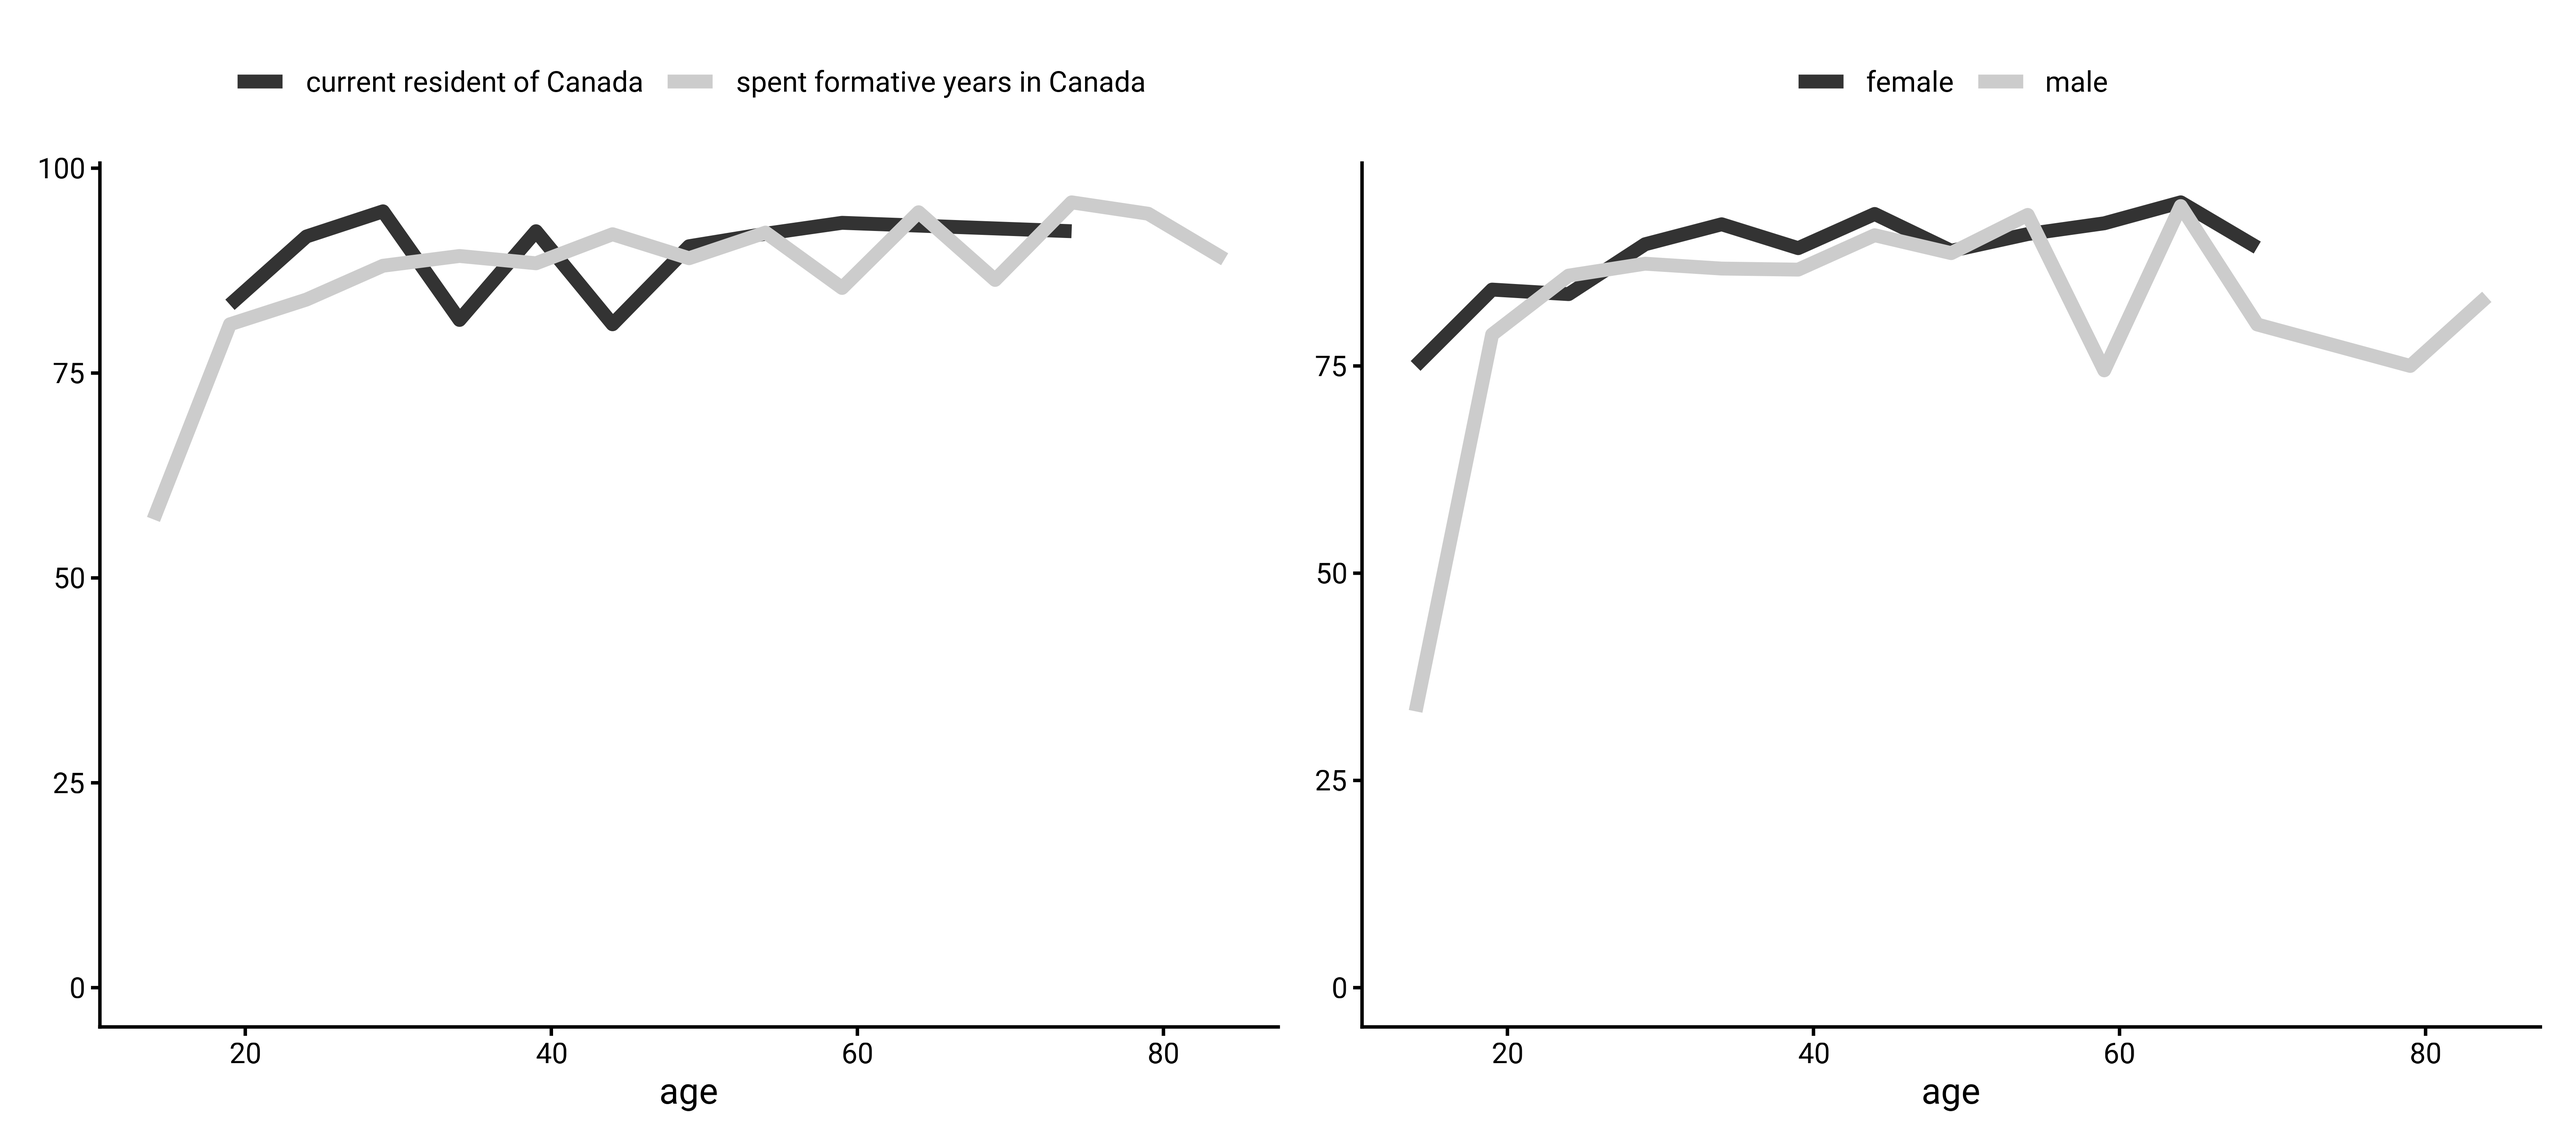
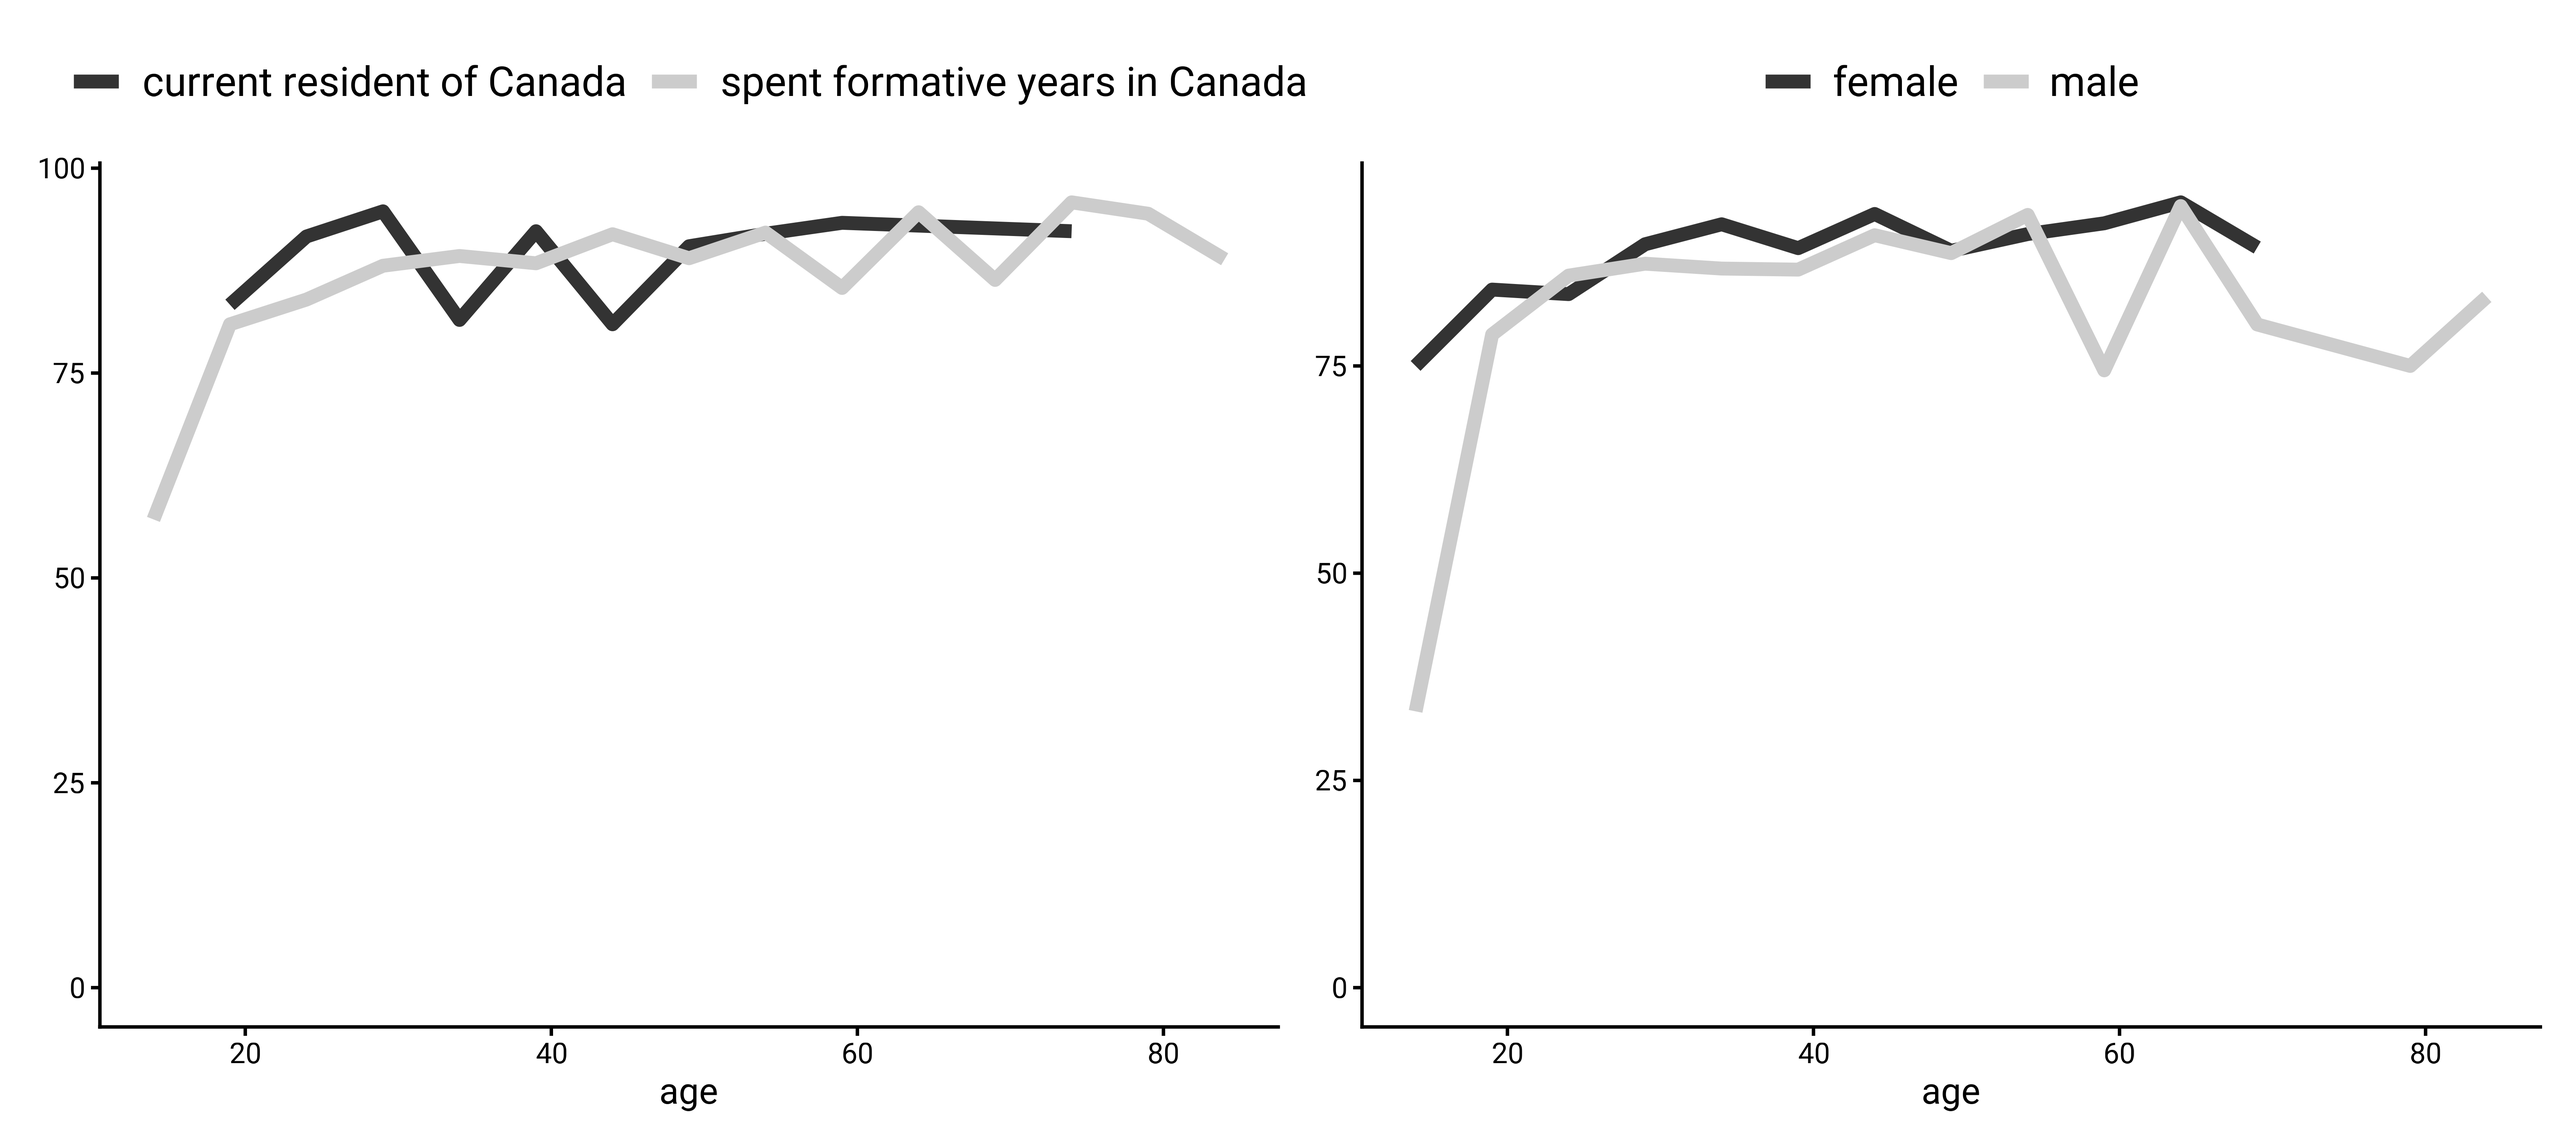
bigger fonts in fig 7

Changed region(s): [[0.0312, 0.0619, 0.4994, 0.0929], [0.6867, 0.0619, 0.8427, 0.0929]]

diff --git a/index.html b/index.html
@@ -333,23 +333,23 @@ To Stefan
 <p>I have selected the following variables by short names, hoping that these are the correct ones to show in Figure 2.</p>
 <div class="cell">
 <div class="cell-output-display">
-<div id="urgqjzfbwr" style="padding-left:0px;padding-right:0px;padding-top:10px;padding-bottom:10px;overflow-x:auto;overflow-y:auto;width:auto;height:auto;">
-<style>#urgqjzfbwr table {
+<div id="tyujrmnfmq" style="padding-left:0px;padding-right:0px;padding-top:10px;padding-bottom:10px;overflow-x:auto;overflow-y:auto;width:auto;height:auto;">
+<style>#tyujrmnfmq table {
   font-family: system-ui, 'Segoe UI', Roboto, Helvetica, Arial, sans-serif, 'Apple Color Emoji', 'Segoe UI Emoji', 'Segoe UI Symbol', 'Noto Color Emoji';
   -webkit-font-smoothing: antialiased;
   -moz-osx-font-smoothing: grayscale;
 }
 
-#urgqjzfbwr thead, #urgqjzfbwr tbody, #urgqjzfbwr tfoot, #urgqjzfbwr tr, #urgqjzfbwr td, #urgqjzfbwr th {
+#tyujrmnfmq thead, #tyujrmnfmq tbody, #tyujrmnfmq tfoot, #tyujrmnfmq tr, #tyujrmnfmq td, #tyujrmnfmq th {
   border-style: none;
 }
 
-#urgqjzfbwr p {
+#tyujrmnfmq p {
   margin: 0;
   padding: 0;
 }
 
-#urgqjzfbwr .gt_table {
+#tyujrmnfmq .gt_table {
   display: table;
   border-collapse: collapse;
   line-height: normal;
@@ -375,12 +375,12 @@ To Stefan
   border-left-color: #D3D3D3;
 }
 
-#urgqjzfbwr .gt_caption {
+#tyujrmnfmq .gt_caption {
   padding-top: 4px;
   padding-bottom: 4px;
 }
 
-#urgqjzfbwr .gt_title {
+#tyujrmnfmq .gt_title {
   color: #333333;
   font-size: 125%;
   font-weight: initial;
@@ -392,7 +392,7 @@ To Stefan
   border-bottom-width: 0;
 }
 
-#urgqjzfbwr .gt_subtitle {
+#tyujrmnfmq .gt_subtitle {
   color: #333333;
   font-size: 85%;
   font-weight: initial;
@@ -404,7 +404,7 @@ To Stefan
   border-top-width: 0;
 }
 
-#urgqjzfbwr .gt_heading {
+#tyujrmnfmq .gt_heading {
   background-color: #FFFFFF;
   text-align: center;
   border-bottom-color: #FFFFFF;
@@ -416,13 +416,13 @@ To Stefan
   border-right-color: #D3D3D3;
 }
 
-#urgqjzfbwr .gt_bottom_border {
+#tyujrmnfmq .gt_bottom_border {
   border-bottom-style: solid;
   border-bottom-width: 2px;
   border-bottom-color: #D3D3D3;
 }
 
-#urgqjzfbwr .gt_col_headings {
+#tyujrmnfmq .gt_col_headings {
   border-top-style: solid;
   border-top-width: 2px;
   border-top-color: #D3D3D3;
@@ -437,7 +437,7 @@ To Stefan
   border-right-color: #D3D3D3;
 }
 
-#urgqjzfbwr .gt_col_heading {
+#tyujrmnfmq .gt_col_heading {
   color: #333333;
   background-color: #FFFFFF;
   font-size: 100%;
@@ -457,7 +457,7 @@ To Stefan
   overflow-x: hidden;
 }
 
-#urgqjzfbwr .gt_column_spanner_outer {
+#tyujrmnfmq .gt_column_spanner_outer {
   color: #333333;
   background-color: #FFFFFF;
   font-size: 100%;
@@ -469,15 +469,15 @@ To Stefan
   padding-right: 4px;
 }
 
-#urgqjzfbwr .gt_column_spanner_outer:first-child {
+#tyujrmnfmq .gt_column_spanner_outer:first-child {
   padding-left: 0;
 }
 
-#urgqjzfbwr .gt_column_spanner_outer:last-child {
+#tyujrmnfmq .gt_column_spanner_outer:last-child {
   padding-right: 0;
 }
 
-#urgqjzfbwr .gt_column_spanner {
+#tyujrmnfmq .gt_column_spanner {
   border-bottom-style: solid;
   border-bottom-width: 2px;
   border-bottom-color: #D3D3D3;
@@ -489,11 +489,11 @@ To Stefan
   width: 100%;
 }
 
-#urgqjzfbwr .gt_spanner_row {
+#tyujrmnfmq .gt_spanner_row {
   border-bottom-style: hidden;
 }
 
-#urgqjzfbwr .gt_group_heading {
+#tyujrmnfmq .gt_group_heading {
   padding-top: 8px;
   padding-bottom: 8px;
   padding-left: 5px;
@@ -519,7 +519,7 @@ To Stefan
   text-align: left;
 }
 
-#urgqjzfbwr .gt_empty_group_heading {
+#tyujrmnfmq .gt_empty_group_heading {
   padding: 0.5px;
   color: #333333;
   background-color: #FFFFFF;
@@ -534,15 +534,15 @@ To Stefan
   vertical-align: middle;
 }
 
-#urgqjzfbwr .gt_from_md > :first-child {
+#tyujrmnfmq .gt_from_md > :first-child {
   margin-top: 0;
 }
 
-#urgqjzfbwr .gt_from_md > :last-child {
+#tyujrmnfmq .gt_from_md > :last-child {
   margin-bottom: 0;
 }
 
-#urgqjzfbwr .gt_row {
+#tyujrmnfmq .gt_row {
   padding-top: 8px;
   padding-bottom: 8px;
   padding-left: 5px;
@@ -561,7 +561,7 @@ To Stefan
   overflow-x: hidden;
 }
 
-#urgqjzfbwr .gt_stub {
+#tyujrmnfmq .gt_stub {
   color: #333333;
   background-color: #FFFFFF;
   font-size: 100%;
@@ -574,7 +574,7 @@ To Stefan
   padding-right: 5px;
 }
 
-#urgqjzfbwr .gt_stub_row_group {
+#tyujrmnfmq .gt_stub_row_group {
   color: #333333;
   background-color: #FFFFFF;
   font-size: 100%;
@@ -588,15 +588,15 @@ To Stefan
   vertical-align: top;
 }
 
-#urgqjzfbwr .gt_row_group_first td {
+#tyujrmnfmq .gt_row_group_first td {
   border-top-width: 2px;
 }
 
-#urgqjzfbwr .gt_row_group_first th {
+#tyujrmnfmq .gt_row_group_first th {
   border-top-width: 2px;
 }
 
-#urgqjzfbwr .gt_summary_row {
+#tyujrmnfmq .gt_summary_row {
   color: #333333;
   background-color: #FFFFFF;
   text-transform: inherit;
@@ -606,16 +606,16 @@ To Stefan
   padding-right: 5px;
 }
 
-#urgqjzfbwr .gt_first_summary_row {
+#tyujrmnfmq .gt_first_summary_row {
   border-top-style: solid;
   border-top-color: #D3D3D3;
 }
 
-#urgqjzfbwr .gt_first_summary_row.thick {
+#tyujrmnfmq .gt_first_summary_row.thick {
   border-top-width: 2px;
 }
 
-#urgqjzfbwr .gt_last_summary_row {
+#tyujrmnfmq .gt_last_summary_row {
   padding-top: 8px;
   padding-bottom: 8px;
   padding-left: 5px;
@@ -625,7 +625,7 @@ To Stefan
   border-bottom-color: #D3D3D3;
 }
 
-#urgqjzfbwr .gt_grand_summary_row {
+#tyujrmnfmq .gt_grand_summary_row {
   color: #333333;
   background-color: #FFFFFF;
   text-transform: inherit;
@@ -635,7 +635,7 @@ To Stefan
   padding-right: 5px;
 }
 
-#urgqjzfbwr .gt_first_grand_summary_row {
+#tyujrmnfmq .gt_first_grand_summary_row {
   padding-top: 8px;
   padding-bottom: 8px;
   padding-left: 5px;
@@ -645,7 +645,7 @@ To Stefan
   border-top-color: #D3D3D3;
 }
 
-#urgqjzfbwr .gt_last_grand_summary_row_top {
+#tyujrmnfmq .gt_last_grand_summary_row_top {
   padding-top: 8px;
   padding-bottom: 8px;
   padding-left: 5px;
@@ -655,11 +655,11 @@ To Stefan
   border-bottom-color: #D3D3D3;
 }
 
-#urgqjzfbwr .gt_striped {
+#tyujrmnfmq .gt_striped {
   background-color: rgba(128, 128, 128, 0.05);
 }
 
-#urgqjzfbwr .gt_table_body {
+#tyujrmnfmq .gt_table_body {
   border-top-style: solid;
   border-top-width: 2px;
   border-top-color: #D3D3D3;
@@ -668,7 +668,7 @@ To Stefan
   border-bottom-color: #D3D3D3;
 }
 
-#urgqjzfbwr .gt_footnotes {
+#tyujrmnfmq .gt_footnotes {
   color: #333333;
   background-color: #FFFFFF;
   border-bottom-style: none;
@@ -682,7 +682,7 @@ To Stefan
   border-right-color: #D3D3D3;
 }
 
-#urgqjzfbwr .gt_footnote {
+#tyujrmnfmq .gt_footnote {
   margin: 0px;
   font-size: 90%;
   padding-top: 4px;
@@ -691,7 +691,7 @@ To Stefan
   padding-right: 5px;
 }
 
-#urgqjzfbwr .gt_sourcenotes {
+#tyujrmnfmq .gt_sourcenotes {
   color: #333333;
   background-color: #FFFFFF;
   border-bottom-style: none;
@@ -705,7 +705,7 @@ To Stefan
   border-right-color: #D3D3D3;
 }
 
-#urgqjzfbwr .gt_sourcenote {
+#tyujrmnfmq .gt_sourcenote {
   font-size: 90%;
   padding-top: 4px;
   padding-bottom: 4px;
@@ -713,72 +713,72 @@ To Stefan
   padding-right: 5px;
 }
 
-#urgqjzfbwr .gt_left {
+#tyujrmnfmq .gt_left {
   text-align: left;
 }
 
-#urgqjzfbwr .gt_center {
+#tyujrmnfmq .gt_center {
   text-align: center;
 }
 
-#urgqjzfbwr .gt_right {
+#tyujrmnfmq .gt_right {
   text-align: right;
   font-variant-numeric: tabular-nums;
 }
 
-#urgqjzfbwr .gt_font_normal {
+#tyujrmnfmq .gt_font_normal {
   font-weight: normal;
 }
 
-#urgqjzfbwr .gt_font_bold {
+#tyujrmnfmq .gt_font_bold {
   font-weight: bold;
 }
 
-#urgqjzfbwr .gt_font_italic {
+#tyujrmnfmq .gt_font_italic {
   font-style: italic;
 }
 
-#urgqjzfbwr .gt_super {
+#tyujrmnfmq .gt_super {
   font-size: 65%;
 }
 
-#urgqjzfbwr .gt_footnote_marks {
+#tyujrmnfmq .gt_footnote_marks {
   font-size: 75%;
   vertical-align: 0.4em;
   position: initial;
 }
 
-#urgqjzfbwr .gt_asterisk {
+#tyujrmnfmq .gt_asterisk {
   font-size: 100%;
   vertical-align: 0;
 }
 
-#urgqjzfbwr .gt_indent_1 {
+#tyujrmnfmq .gt_indent_1 {
   text-indent: 5px;
 }
 
-#urgqjzfbwr .gt_indent_2 {
+#tyujrmnfmq .gt_indent_2 {
   text-indent: 10px;
 }
 
-#urgqjzfbwr .gt_indent_3 {
+#tyujrmnfmq .gt_indent_3 {
   text-indent: 15px;
 }
 
-#urgqjzfbwr .gt_indent_4 {
+#tyujrmnfmq .gt_indent_4 {
   text-indent: 20px;
 }
 
-#urgqjzfbwr .gt_indent_5 {
+#tyujrmnfmq .gt_indent_5 {
   text-indent: 25px;
 }
 
-#urgqjzfbwr .katex-display {
+#tyujrmnfmq .katex-display {
   display: inline-flex !important;
   margin-bottom: 0.75em !important;
 }
 
-#urgqjzfbwr div.Reactable > div.rt-table > div.rt-thead > div.rt-tr.rt-tr-group-header > div.rt-th-group:after {
+#tyujrmnfmq div.Reactable > div.rt-table > div.rt-thead > div.rt-tr.rt-tr-group-header > div.rt-th-group:after {
   height: 0px !important;
 }
 </style>
@@ -1462,7 +1462,7 @@ Figure&nbsp;6: Probabilities of being able to describe the standard (lower line)
 <span id="cb7-38"><a href="#cb7-38" aria-hidden="true" tabindex="-1"></a>  <span class="fu">labs</span>(<span class="at">y=</span><span class="cn">NULL</span>) <span class="sc">+</span></span>
 <span id="cb7-39"><a href="#cb7-39" aria-hidden="true" tabindex="-1"></a>  <span class="fu">theme_classic</span>(<span class="at">base_family =</span> <span class="st">"roboto"</span>) <span class="sc">+</span></span>
 <span id="cb7-40"><a href="#cb7-40" aria-hidden="true" tabindex="-1"></a>  <span class="fu">theme</span>(</span>
-<span id="cb7-41"><a href="#cb7-41" aria-hidden="true" tabindex="-1"></a>    <span class="at">legend.text =</span> <span class="fu">element_text</span>(<span class="at">family =</span> <span class="st">"roboto"</span>),    </span>
+<span id="cb7-41"><a href="#cb7-41" aria-hidden="true" tabindex="-1"></a>    <span class="at">legend.text =</span> <span class="fu">element_text</span>(<span class="at">family =</span> <span class="st">"roboto"</span>, <span class="at">size =</span> <span class="fu">rel</span>(<span class="fl">1.15</span>)),    </span>
 <span id="cb7-42"><a href="#cb7-42" aria-hidden="true" tabindex="-1"></a>    <span class="at">legend.title =</span> <span class="fu">element_text</span>(<span class="at">family =</span> <span class="st">"roboto"</span>),</span>
 <span id="cb7-43"><a href="#cb7-43" aria-hidden="true" tabindex="-1"></a>    <span class="at">legend.position =</span> <span class="st">"top"</span></span>
 <span id="cb7-44"><a href="#cb7-44" aria-hidden="true" tabindex="-1"></a>    )</span>
@@ -1506,7 +1506,7 @@ Figure&nbsp;6: Probabilities of being able to describe the standard (lower line)
 <span id="cb7-82"><a href="#cb7-82" aria-hidden="true" tabindex="-1"></a>  <span class="fu">labs</span>(<span class="at">y=</span><span class="cn">NULL</span>) <span class="sc">+</span></span>
 <span id="cb7-83"><a href="#cb7-83" aria-hidden="true" tabindex="-1"></a>  <span class="fu">theme_classic</span>(<span class="at">base_family =</span> <span class="st">"roboto"</span>) <span class="sc">+</span></span>
 <span id="cb7-84"><a href="#cb7-84" aria-hidden="true" tabindex="-1"></a>  <span class="fu">theme</span>(</span>
-<span id="cb7-85"><a href="#cb7-85" aria-hidden="true" tabindex="-1"></a>    <span class="at">legend.text =</span> <span class="fu">element_text</span>(<span class="at">family =</span> <span class="st">"roboto"</span>),    </span>
+<span id="cb7-85"><a href="#cb7-85" aria-hidden="true" tabindex="-1"></a>    <span class="at">legend.text =</span> <span class="fu">element_text</span>(<span class="at">family =</span> <span class="st">"roboto"</span>, <span class="at">size =</span> <span class="fu">rel</span>(<span class="fl">1.15</span>)),    </span>
 <span id="cb7-86"><a href="#cb7-86" aria-hidden="true" tabindex="-1"></a>    <span class="at">legend.title =</span> <span class="fu">element_text</span>(<span class="at">family =</span> <span class="st">"roboto"</span>),</span>
 <span id="cb7-87"><a href="#cb7-87" aria-hidden="true" tabindex="-1"></a>    <span class="at">legend.position =</span> <span class="st">"top"</span></span>
 <span id="cb7-88"><a href="#cb7-88" aria-hidden="true" tabindex="-1"></a>    )</span>
